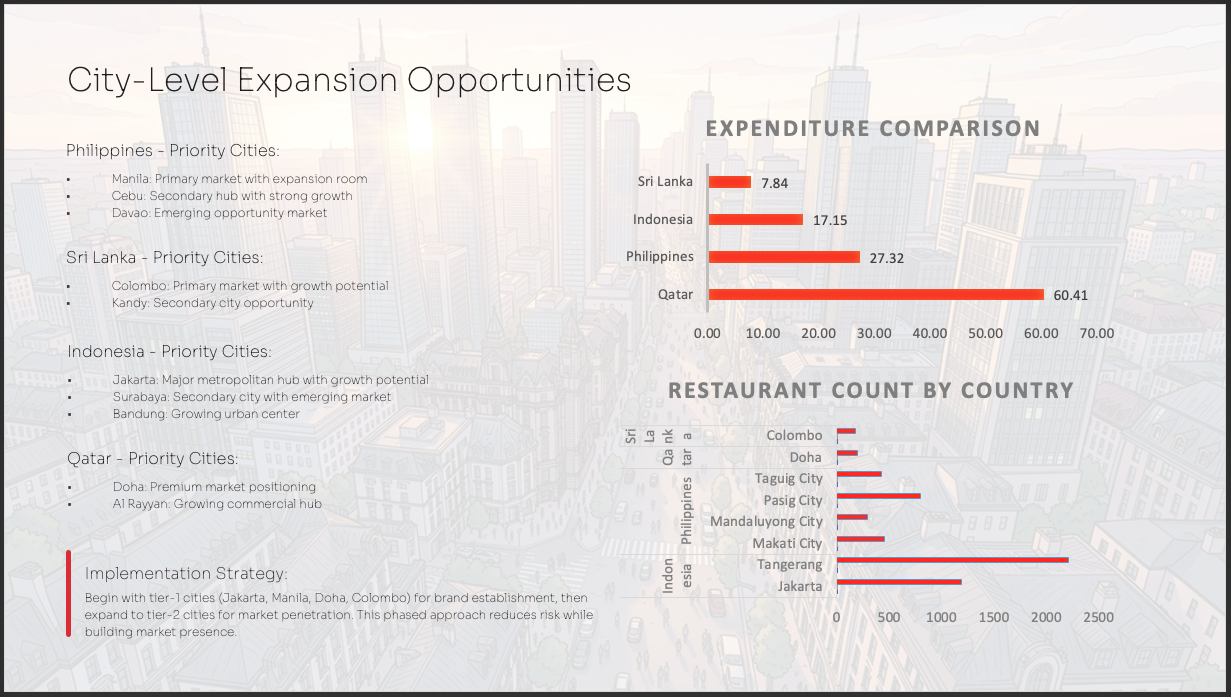
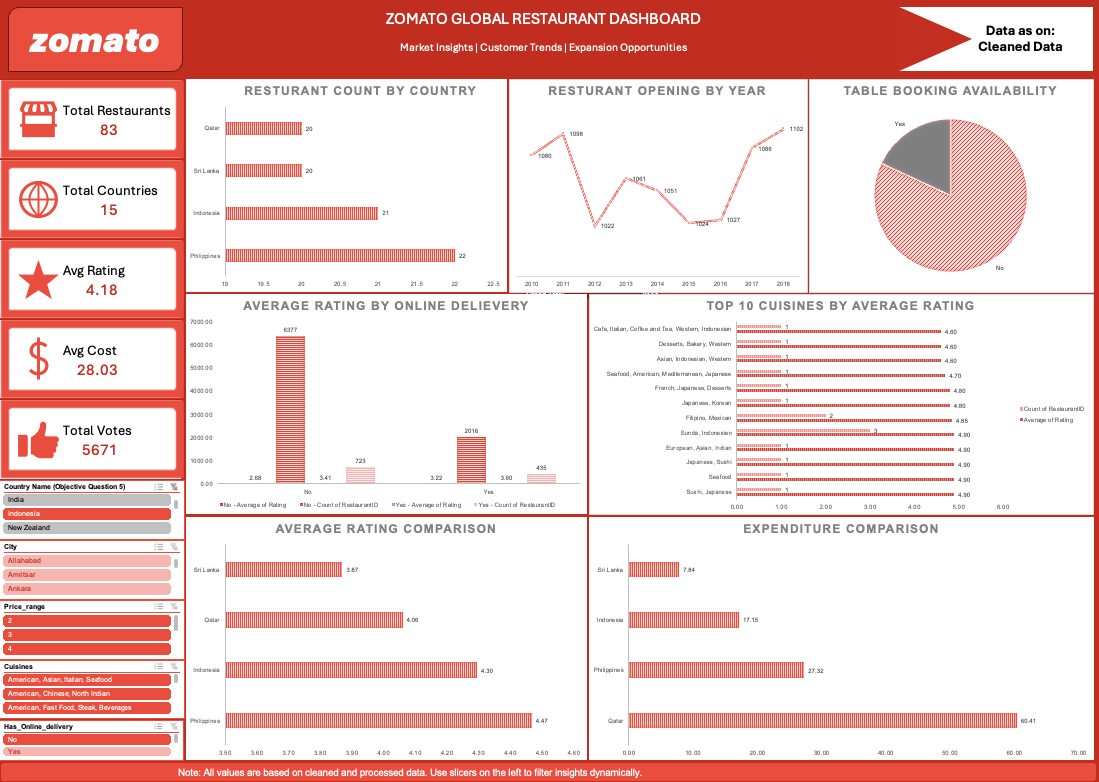
update screenshots

diff --git a/README.md b/README.md
@@ -7,7 +7,7 @@
[1 lines of base64/hex data omitted]
 [![License: MIT](https://img.shields.io/badge/License-MIT-blue.svg?style=for-the-badge)](https://opensource.org/licenses/MIT)
 
-![Zomato Dashboard](assets/dashboard.png)
+![Zomato Coverpage](assets/coverpage.png)
 
 </div>
 
@@ -64,6 +64,8 @@ This analysis relied on robust data manipulation and visualization techniques wi
 ## 📈 Dashboard Preview & Analysis
 
 ### Executive Summary Dashboard
+![Zomato Dashboard](assets/dashboard.png)
+![City Expansion](assets/city-expansion.png)
 
 * **Market Saturation KPI:** Visualizes the stark concentration of restaurants in India versus the latent potential in emerging markets like the UAE and Indonesia.
 * **Pricing & Performance Correlation:** Demonstrates how higher-priced dining establishments consistently secure higher average user ratings.
@@ -80,6 +82,8 @@ This analysis relied on robust data manipulation and visualization techniques wi
 ---
 
 ## 🚀 Strategic Recommendations
+
+![Strategic Recommendations](assets/recommendations.png)
 
 Based on the data analysis, the following actions are recommended for the executive team:
 